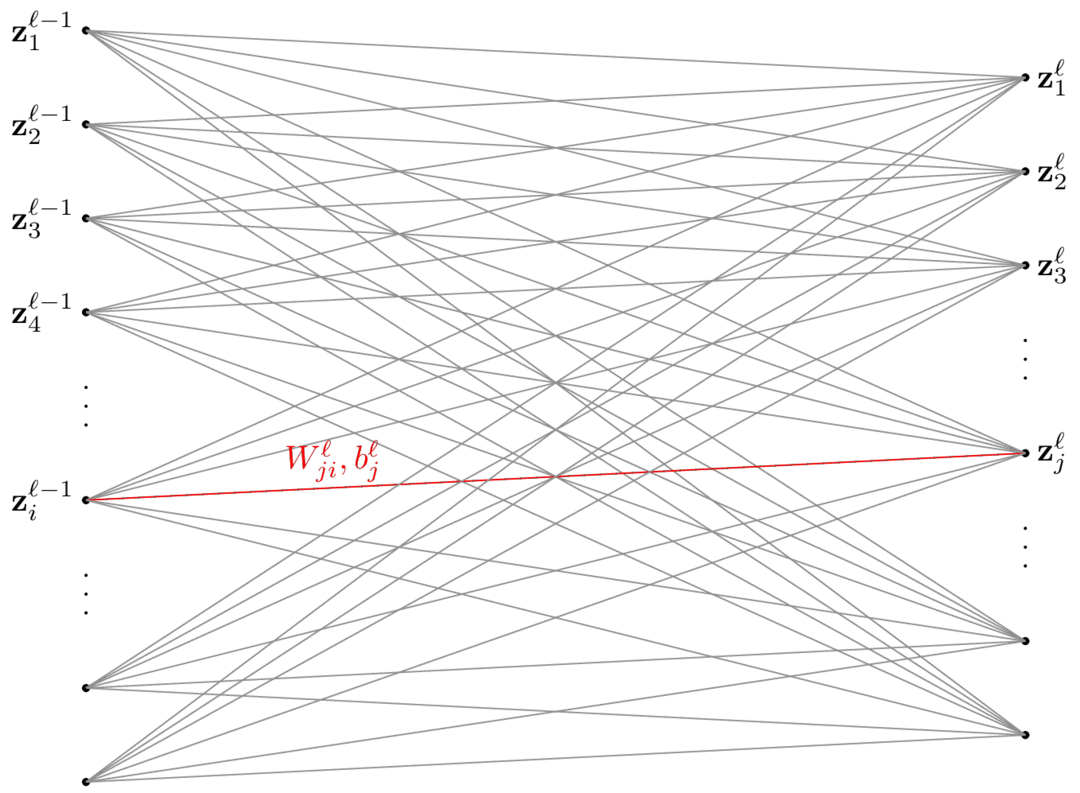
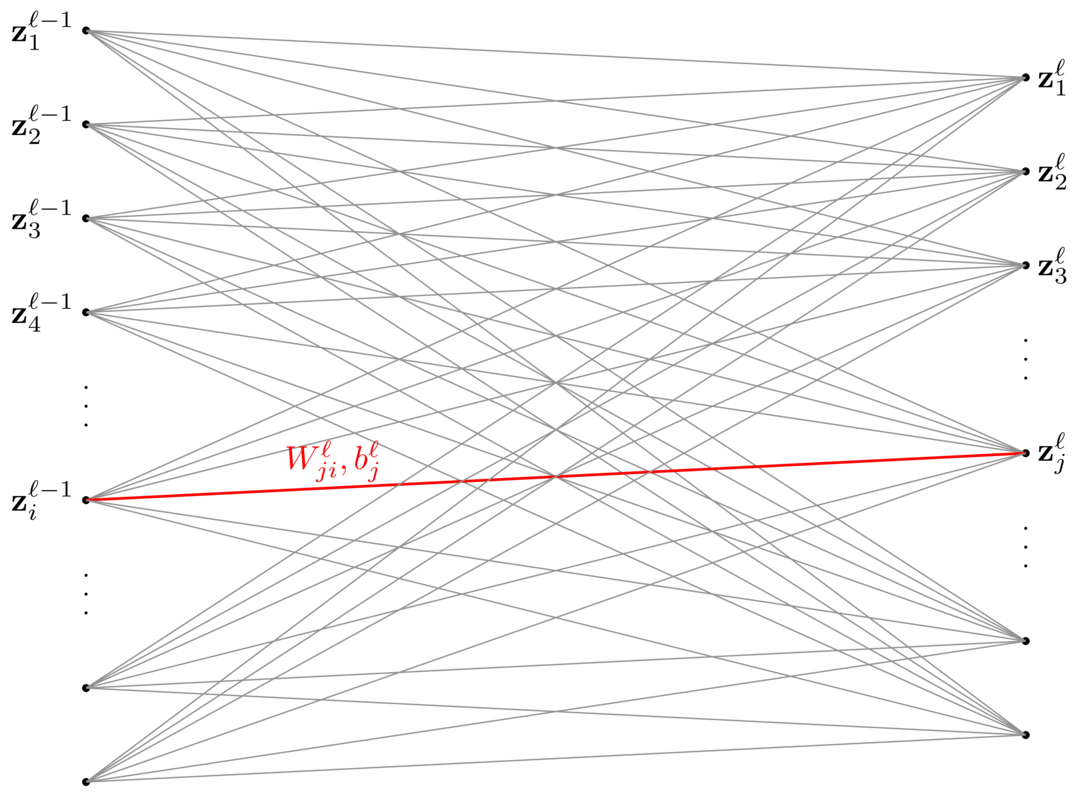
Adjusted sizes and fixed an id

diff --git a/math/neural-networks.html b/math/neural-networks.html
@@ -207,7 +207,7 @@
               \frac{\partial E_n}{\partial \mathbf{b}^\ell_j} &= \frac{\partial E_n}{\partial \mathbf{z}^\ell_j} \frac{\partial \mathbf{z}^\ell_j}{\partial \mathbf{b}^\ell_j} = \delta_j^\ell.
             \end{align*}
           <p>We have access to $\mathbf{a}^{\ell-1}_i$, so the next thing we need to do is be able to calculate $\delta^\ell_j = \dfrac{\partial E_n}{\partial \mathbf{z}^\ell_j}$. To do that, we look at how $\mathbf{z}^\ell_j$ affects the next layer.</p>
-          <img id="neural-network-1" src="../resources/img/neural-network-2.png">
+          <img id="neural-network-2" src="../resources/img/neural-network-2.png">
           <p>We see that changing $\mathbf{z}^\ell_j$ changes every quantity in the next layer, which in turns changes $E_n(W)$, so by the chain rule,</p>
             \[
               \frac{\partial E_n}{\partial \mathbf{z}^\ell_j} = \sum_i \frac{\partial E_n}{\partial \mathbf{z}^{\ell+1}_i}\frac{\partial \mathbf{z}^{\ell+1}_i}{\partial \mathbf{z}^\ell_j}.

diff --git a/resources/css/math.css b/resources/css/math.css
@@ -106,5 +106,5 @@ img
 /* Neural Network Styling */
 /* ---------------------------------------------------------------- */
 
-#neural-network-1 { width: 50% }
-#neural-network-2 { width: 20% }
+#neural-network-1 { width: 80% }
+#neural-network-2 { width: 30% }
